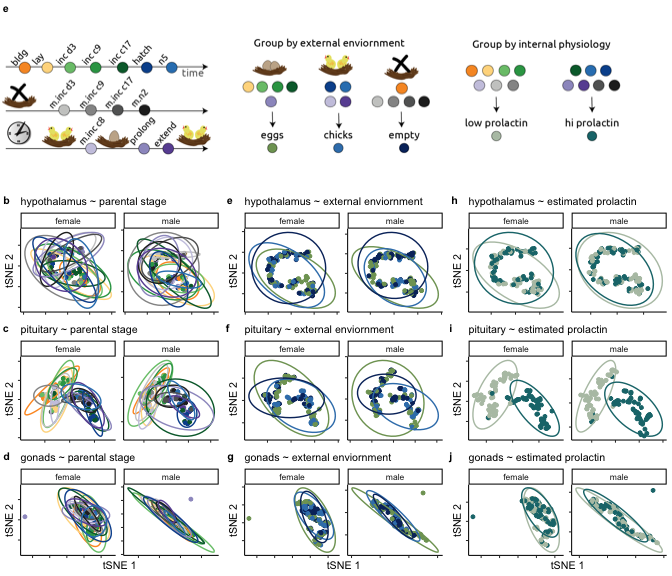
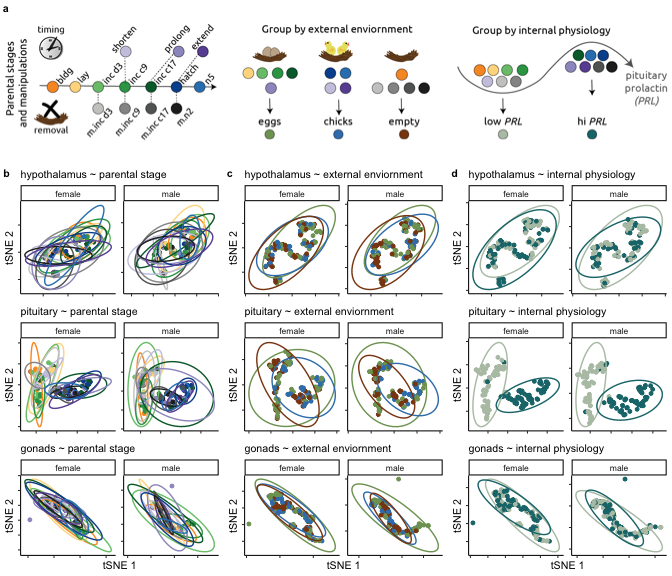
better colors and illustration

diff --git a/analysis/figure5-maniptsne.md b/analysis/figure5-maniptsne.md
@@ -36,30 +36,26 @@ make figure
     c <- plottsneelipsev2(pittsne, pittsne$treatment, allcolors ) + labs(subtitle = "pituitary ~ parental stage", x = NULL) + facet_wrap(~sex, scales = "free") 
     d <- plottsneelipsev2(gontsne, gontsne$treatment, allcolors ) + labs(subtitle = "gonads ~ parental stage")  + facet_wrap(~sex, scales = "free")  
 
-    bcd <- plot_grid(b,c,d, nrow = 3, labels = c("b", "c", "d"), label_size = 8, rel_heights = c(1,1,1))
+    bcd <- plot_grid(b,c,d, nrow = 3, labels = c("b"), label_size = 8, rel_heights = c(1,1,1))
 
     ## Warning in MASS::cov.trob(data[, vars]): Probable convergence failure
 
-    ## Warning in MASS::cov.trob(data[, vars]): Probable convergence failure
+    e <- plottsneelipsev2(hyptsne, hyptsne$hiloPRL, allcolors ) + labs(subtitle = "hypothalamus ~ internal physiology", x = NULL) + facet_wrap(~sex, scales = "free")  
+    f <- plottsneelipsev2(pittsne, pittsne$hiloPRL, allcolors ) + labs(subtitle = "pituitary ~ internal physiology", x = NULL) + facet_wrap(~sex, scales = "free")   
+    g <- plottsneelipsev2(gontsne, gontsne$hiloPRL, allcolors ) + labs(subtitle = "gonads ~ internal physiology" ) + facet_wrap(~sex, scales = "free")   
 
-    ## Warning in MASS::cov.trob(data[, vars]): Probable convergence failure
-
-    e <- plottsneelipsev2(hyptsne, hyptsne$hiloPRL, allcolors ) + labs(subtitle = "hypothalamus ~ estimated prolactin", x = NULL) + facet_wrap(~sex, scales = "free")  
-    f <- plottsneelipsev2(pittsne, pittsne$hiloPRL, allcolors ) + labs(subtitle = "pituitary ~ estimated prolactin", x = NULL) + facet_wrap(~sex, scales = "free")   
-    g <- plottsneelipsev2(gontsne, gontsne$hiloPRL, allcolors ) + labs(subtitle = "gonads ~ estimated prolactin" ) + facet_wrap(~sex, scales = "free")   
-
-    efg <- plot_grid(e,f,g, nrow = 3, labels = c("h", "i", "j"), label_size = 8, rel_heights = c(1,1,1))
+    efg <- plot_grid(e,f,g, nrow = 3, labels = c("d"), label_size = 8, rel_heights = c(1,1,1))
 
     h <- plottsneelipsev2(hyptsne, hyptsne$extint, allcolors ) + labs(subtitle = "hypothalamus ~ external enviornment", x = NULL) + facet_wrap(~sex, scales = "free")  
     i <- plottsneelipsev2(pittsne, pittsne$extint, allcolors ) + labs(subtitle = "pituitary ~ external enviornment", x = NULL) + facet_wrap(~sex, scales = "free")   
     j <- plottsneelipsev2(gontsne, gontsne$extint, allcolors ) + labs(subtitle = "gonads ~ external enviornment" ) + facet_wrap(~sex, scales = "free")   
 
-    hij <- plot_grid(h,i,j, nrow = 3, labels = c("e", "f", "g"), label_size = 8, rel_heights = c(1,1,1))
+    hij <- plot_grid(h,i,j, nrow = 3, labels = c("c"), label_size = 8, rel_heights = c(1,1,1))
 
     bcdhijefg <- plot_grid(bcd, hij,  efg, nrow = 1)
 
 
-    fig6 <- plot_grid(expdesign2, bcdhijefg, nrow = 2, labels = c("e"), label_size = 8, rel_heights = c(0.5,1))
+    fig6 <- plot_grid(expdesign2, bcdhijefg, nrow = 2, labels = c("a"), label_size = 8, rel_heights = c(0.4,1))
     fig6
 
 ![](../figures/fig5-1.png)
